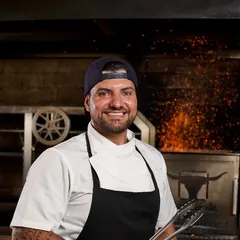
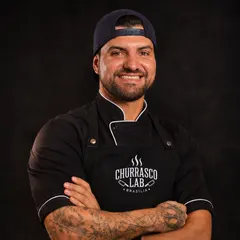
Aulas-show: fotos novas do ensaio em destaque e mini currículo no cartão

diff --git a/src/components/Aulas.tsx b/src/components/Aulas.tsx
@@ -11,26 +11,34 @@ import { situacoes, type Situacao } from "@/lib/tempo";
 import { irPara } from "@/lib/nav";
 import { track } from "@/lib/analytics";
 
-function Retrato({ p, className }: { p: Profissional; className: string }) {
-  return p.fotoMini ? (
-    <img src={p.fotoMini} alt="" width={240} height={240} loading="lazy" className={`${className} object-cover`} />
-  ) : (
-    /* sem foto oficial: inicial do nome, nada de retrato inventado */
-    <span aria-hidden className={`${className} titulo grid place-items-center bg-cartao-2 text-[34px] text-brasa`}>
-      {p.nome[0]}
-    </span>
-  );
-}
-
 function Cartao({ aula, marcada, sit, abrir, i }: { aula: Aula; marcada: boolean; sit?: Situacao; abrir: (p: Profissional) => void; i: number }) {
   const prof = profissionalPorId(aula.profissional);
-  const temPerfil = Boolean(prof.bio?.length);
   const encerrada = sit === "encerrada";
-  const corpo = (
-    <>
-      <Retrato p={prof} className="size-[68px] shrink-0 rounded-[16px] sm:size-[96px] sm:rounded-[18px]" />
-      <span className="min-w-0 flex-1 text-left">
-        <span className="flex flex-wrap items-center gap-x-2 gap-y-1 text-[14px] font-bold text-ambar">
+  return (
+    <li
+      data-rev
+      style={{ ["--atraso" as string]: `${i * 0.06}s` }}
+      className={`cartao flex min-w-0 flex-col overflow-hidden !p-0 transition-[border-color,box-shadow,opacity] duration-300 sm:flex-row ${marcada ? "!border-brasa shadow-[0_0_0_1px_var(--color-brasa),0_14px_36px_-18px_rgb(244_122_18/0.7)]" : ""} ${encerrada ? "opacity-55" : ""}`}
+    >
+      {/* a foto é o destaque do cartão; o nome vai por cima dela, na parte escura de baixo */}
+      <button type="button" onClick={() => abrir(prof)} aria-label={`Ver perfil de ${prof.nomeCompleto || nomeNaProgramacao(prof)}`} className="group relative block aspect-[5/4.6] w-full shrink-0 overflow-hidden bg-fundo text-left sm:aspect-auto sm:min-h-[330px] sm:w-[44%]">
+        {prof.foto ? (
+          <img src={prof.foto} alt="" width={880} height={1100} loading="lazy" className="absolute inset-0 size-full object-cover transition-transform duration-700 group-hover:scale-[1.04]" style={{ objectPosition: prof.foco }} />
+        ) : (
+          /* sem foto oficial: inicial do nome, nada de retrato inventado */
+          <span aria-hidden className="titulo absolute inset-0 grid place-items-center bg-cartao-2 text-[90px] text-brasa">
+            {prof.nome[0]}
+          </span>
+        )}
+        <span aria-hidden className="absolute inset-x-0 bottom-0 h-[52%] bg-gradient-to-t from-[rgb(12_7_5/0.96)] via-[rgb(12_7_5/0.6)] to-transparent" />
+        <span className="absolute inset-x-0 bottom-0 px-5 pb-4">
+          <span className="block text-[clamp(22px,6.2vw,26px)] leading-[1.05] font-extrabold tracking-[-0.02em] text-texto sm:text-[23px]">{prof.nome}</span>
+          {prof.marca && <span className="manuscrito mt-0.5 block text-[24px] leading-[1.1] sm:text-[22px]">{prof.marca}</span>}
+        </span>
+      </button>
+
+      <div className="flex min-w-0 flex-1 flex-col p-5 sm:py-6">
+        <p className="flex flex-wrap items-center gap-x-2 gap-y-1 text-[14px] font-bold text-ambar">
           <time dateTime={`${aula.data}T${aula.inicio}-03:00`}>{hora(aula.inicio)}</time>
           <span className="font-medium text-suave">às {hora(aula.fim)}</span>
           {sit === "andamento" && (
@@ -39,59 +47,43 @@ function Cartao({ aula, marcada, sit, abrir, i }: { aula: Aula; marcada: boolean
             </span>
           )}
           {encerrada && <span className="rounded-full border border-suave/40 px-2 py-0.5 text-[10.5px] font-semibold tracking-[0.12em] text-suave uppercase">encerrada</span>}
-        </span>
-        <span className="mt-1 block text-[clamp(15px,4.1vw,20px)] leading-[1.15] font-extrabold tracking-[-0.015em] [overflow-wrap:anywhere]">{aula.tema}</span>
-        <span className="mt-1.5 block text-[14px] leading-tight text-suave">{nomeNaProgramacao(prof)}</span>
-      </span>
-    </>
-  );
-  return (
-    <li
-      data-rev
-      style={{ ["--atraso" as string]: `${i * 0.06}s` }}
-      className={`cartao min-w-0 p-2.5 transition-[border-color,box-shadow,opacity] duration-300 ${marcada ? "!border-brasa shadow-[0_0_0_1px_var(--color-brasa),0_14px_36px_-18px_rgb(244_122_18/0.7)]" : ""} ${encerrada ? "opacity-55" : ""}`}
-    >
-      <div className="flex min-w-0 items-center gap-2">
-      {temPerfil ? (
-        <button type="button" onClick={() => abrir(prof)} aria-label={`${aula.tema}, com ${nomeNaProgramacao(prof)}. Ver perfil.`} className="flex min-w-0 flex-1 items-center gap-3 rounded-[18px] sm:gap-3.5">
-          {corpo}
-        </button>
-      ) : (
-        <div className="flex min-w-0 flex-1 items-center gap-3 sm:gap-3.5">{corpo}</div>
-      )}
-      <button
-        type="button"
-        aria-pressed={marcada}
-        aria-label={marcada ? `Tirar ${aula.tema} da minha inscrição` : `Quero assistir ${aula.tema}`}
-        onClick={() => {
-          lista.alternar(aula.id);
-          track("aula_marcar", { aula: aula.id, marcada: !marcada });
-        }}
-        className={`mr-1 grid size-[46px] shrink-0 sm:size-[52px] place-items-center rounded-full border-[1.5px] transition-[background-color,border-color,color,transform] duration-300 active:scale-90 ${
-          marcada ? "border-brasa bg-brasa text-tinta" : "border-brasa/70 text-brasa hover:bg-brasa/15"
-        }`}
-      >
-        {marcada ? <Check className="size-6" strokeWidth={3} aria-hidden /> : <Plus className="size-6" strokeWidth={2.4} aria-hidden />}
-      </button>
-      </div>
-      {/* mini currículo, do material enviado pelo próprio profissional */}
-      {prof.bio?.[0] && (
-        <p className="mt-2.5 border-t border-[rgb(255_190_130/0.12)] px-1.5 pt-2.5 pb-1 text-[13.5px] leading-[1.5] text-suave">
-          {prof.bio[0]}{" "}
-          {prof.bio.length > 1 && (
-            <button type="button" onClick={() => abrir(prof)} className="font-bold text-ambar underline underline-offset-2">
-              ver mais
-            </button>
-          )}
         </p>
-      )}
+        <h4 className="mt-1.5 text-[clamp(20px,5.6vw,24px)] leading-[1.12] font-extrabold tracking-[-0.02em] [overflow-wrap:anywhere] sm:text-[22px]">{aula.tema}</h4>
+        {/* mini currículo, do material enviado pelo próprio profissional */}
+        {prof.bio?.[0] && (
+          <p className="mt-3 border-l-2 border-brasa/60 pl-3 text-[14.5px] leading-[1.55] text-texto/85">
+            {prof.bio[0]}{" "}
+            {prof.bio.length > 1 && (
+              <button type="button" onClick={() => abrir(prof)} className="font-bold whitespace-nowrap text-ambar underline underline-offset-2">
+                ver mais
+              </button>
+            )}
+          </p>
+        )}
+        <span aria-hidden className="min-h-5 flex-1" />
+        {inscricaoAtiva && (
+          <button
+            type="button"
+            aria-pressed={marcada}
+            aria-label={marcada ? `Tirar ${aula.tema} da minha inscrição` : `Quero assistir ${aula.tema}`}
+            onClick={() => {
+              lista.alternar(aula.id);
+              track("aula_marcar", { aula: aula.id, marcada: !marcada });
+            }}
+            className={`btn btn-sm w-full ${marcada ? "btn-brasa" : "btn-linha"}`}
+          >
+            {marcada ? <Check className="size-4" strokeWidth={3} aria-hidden /> : <Plus className="size-4" strokeWidth={2.6} aria-hidden />}
+            {marcada ? "Aula escolhida" : "Quero esta aula"}
+          </button>
+        )}
+      </div>
     </li>
   );
 }
 
 /**
  * AULAS-SHOW: as seis aulas à vista, separadas por dia. Cada cartão mostra foto, horário,
- * tema e quem ensina. O botão "+" escolhe a aula para a inscrição. O mini currículo aparece no próprio cartão.
+ * tema e quem ensina. O botão "Quero esta aula" escolhe a aula para a inscrição. A foto e o mini currículo são o destaque do cartão.
  */
 export function Aulas() {
   const root = useRef<HTMLElement>(null);
@@ -126,7 +118,7 @@ export function Aulas() {
 
   return (
     <section id="aulas" ref={root} className="relative bg-white/[0.022] px-5 py-20 sm:py-24">
-      <TituloSecao frase="Bora aprender" titulo="Aulas-show" apoio={inscricaoAtiva ? <>Toque no <strong className="text-ambar">+</strong> para escolher as suas.</> : `${aulas.length} aulas em ${dias.length} dias. ${profissionais.length} profissionais.`} />
+      <TituloSecao frase="Bora aprender" titulo="Aulas-show" apoio={inscricaoAtiva ? "Conheça quem ensina e escolha as suas aulas." : `${aulas.length} aulas em ${dias.length} dias. ${profissionais.length} profissionais.`} />
 
       <div className="mx-auto mt-10 max-w-[1040px] space-y-10">
         {dias.map((d) => (
@@ -138,7 +130,7 @@ export function Aulas() {
               </span>
               <span aria-hidden className="h-px w-10 bg-brasa/50 sm:w-20" />
             </h3>
-            <ul className="mx-auto mt-5 grid max-w-[520px] grid-cols-1 gap-3 lg:max-w-none lg:grid-cols-2 lg:gap-4">
+            <ul className="mx-auto mt-5 grid max-w-[440px] grid-cols-1 gap-4 sm:max-w-[620px] lg:max-w-none lg:grid-cols-2">
               {aulasDoDia(d.data).map((a) => (
                 <Cartao key={a.id} aula={a} marcada={marcadas.includes(a.id)} sit={sit?.[a.id]} abrir={abrir} i={ordem++ % 2} />
               ))}
@@ -170,7 +162,7 @@ export function Aulas() {
         {aberto && (
           <div className="grid max-h-[92svh] overflow-y-auto sm:grid-cols-[0.82fr_1.18fr]">
             <div className="relative h-[36svh] min-h-[230px] bg-fundo sm:h-auto sm:min-h-[480px]">
-              {aberto.foto && <img src={aberto.foto} alt={`Foto de ${aberto.nomeCompleto || aberto.nome}`} width={900} height={1200} className="absolute inset-0 size-full object-cover" style={{ objectPosition: aberto.foco }} />}
+              {aberto.foto && <img src={aberto.foto} alt={`Foto de ${aberto.nomeCompleto || aberto.nome}`} width={880} height={1100} className="absolute inset-0 size-full object-cover" style={{ objectPosition: aberto.foco }} />}
               <span aria-hidden className="absolute inset-x-0 bottom-0 h-1/3 bg-gradient-to-t from-cartao to-transparent sm:hidden" />
             </div>
             <div className="p-6 text-center sm:p-8 sm:text-left">

diff --git a/src/config/evento.ts b/src/config/evento.ts
@@ -58,13 +58,13 @@ export type Profissional = {
 };
 
 export const profissionais: Profissional[] = [
-  { id: "jose", nome: "José", marca: "Molotov" },
+  { id: "jose", nome: "José", marca: "Molotov", nomeCompleto: "José Aguiar", foto: "/profissionais/jose.webp", fotoMini: "/profissionais/jose-mini.webp", foco: "50% 12%" },
   {
     id: "jonathan",
     nome: "Jonathan Nobre",
     foto: "/profissionais/jonathan.webp",
     fotoMini: "/profissionais/jonathan-mini.webp",
-    foco: "50% 18%",
+    foco: "50% 12%",
     bio: [
       "Chef, empreendedor e gestor de restaurantes, com mais de 8 anos de experiência no Brasil e nos Estados Unidos.",
       "Fundador do Alecrim Smokehouse, em Brasília. Especialista em American BBQ, churrasco brasileiro e parrilla argentina, com experiência em gestão, desenvolvimento de negócios, controle de custos e liderança de equipes.",
@@ -77,7 +77,7 @@ export const profissionais: Profissional[] = [
     nomeCompleto: "Jefferson Faustino",
     foto: "/profissionais/jefferson.webp",
     fotoMini: "/profissionais/jefferson-mini.webp",
-    foco: "50% 22%",
+    foco: "50% 12%",
     bio: [
       "À frente do Braseiro61, une o domínio do fogo, a técnica do churrasco e a valorização das raízes da comida caipira.",
       "Em Brasília, atua também como churrasqueiro e mentor, formando novos profissionais em experiências práticas, workshops e vivências à beira do fogo.",
@@ -89,7 +89,7 @@ export const profissionais: Profissional[] = [
     marca: "Rusticano",
     foto: "/profissionais/gabrielle.webp",
     fotoMini: "/profissionais/gabrielle-mini.webp",
-    foco: "50% 20%",
+    foco: "50% 12%",
     bio: [
       "Formada em Administração de Empresas, decidiu empreender junto com o esposo e construir a própria hamburgueria do zero, mesmo sem recursos e sem experiência no ramo.",
       "Responsável pela administração do negócio, ajudou a estruturar, organizar e fazer crescer a empresa, que está em funcionamento há sete anos.",
@@ -102,7 +102,7 @@ export const profissionais: Profissional[] = [
     nomeCompleto: "Pedro Henrique",
     foto: "/profissionais/pedro.webp",
     fotoMini: "/profissionais/pedro-mini.webp",
-    foco: "50% 20%",
+    foco: "50% 12%",
     bio: [
       "Formado em Administração de Empresas, começou na cozinha em 2015. Em 2018 conheceu o American Barbecue, aprofundou os estudos e, no fim daquele ano, fundou o 061bbq junto com a esposa.",
       "Hoje tem um ponto de vendas de rua em Águas Claras, é sócio proprietário da unidade de Vicente Pires e participa de grandes eventos e serviços de buffet.",
@@ -113,7 +113,7 @@ export const profissionais: Profissional[] = [
     nome: "Andrey Angelim",
     foto: "/profissionais/andrey.webp",
     fotoMini: "/profissionais/andrey-mini.webp",
-    foco: "50% 18%",
+    foco: "50% 12%",
     bio: [
       "Cozinheiro e chef de cozinha formado pelo IESB, em Brasília. São 10 anos de cozinha profissional, sempre com a carne no centro: churrasco, parrilla e cozinha de fogo.",
       "Desde 2021 está à frente da cozinha da Fazenda Churrascada Brasília. Também se dedica ao ensino, com aulas para iniciantes e profissionais, e à consultoria para restaurantes.",
